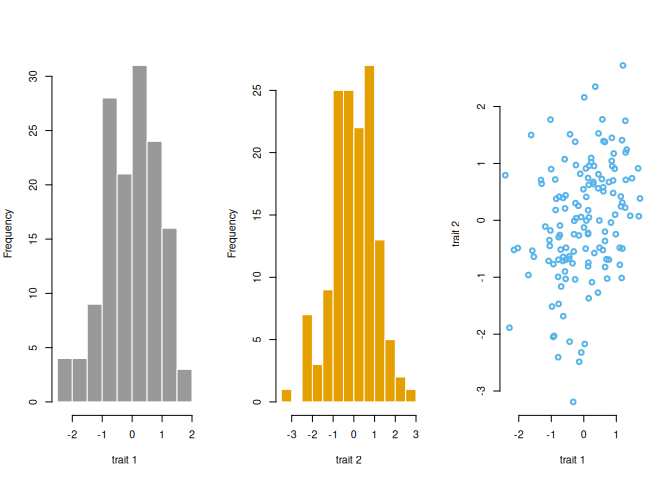
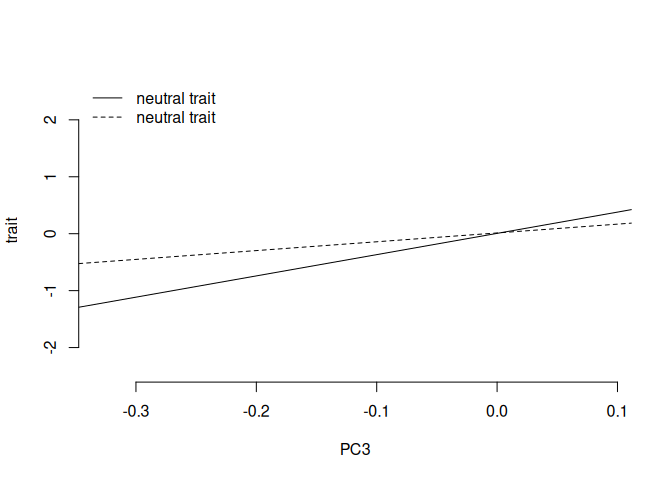
more trait sims

diff --git a/trait-sims.md b/trait-sims.md
@@ -14,43 +14,19 @@ output:
 #140 individuals, 2 traits
 myM = matrix(0, nrow=140, ncol=2)
 
-##pull in one of our actual kinship matrices
-load('data/Norwich_qpc_inputs.rda')
-
 #make up some Vas and Cs. 
 myV = matrix(c(1,.5,.5,1), nrow=2)
 
-set.seed(3)
+set.seed(333)
 
 myZ = matrix_normal(M = myM, U = myK, V = myV)
 
-par(mfrow=c(1,3))
-hist(myZ[,1], col = mycol[1], border="white", breaks=10, main = "", xlab = "trait 1")
-hist(myZ[,2], col = mycol[2], border="white", breaks=10, main= "", xlab = "trait 2")
-plot(myZ[,1], myZ[,2], xlab = "trait 1", ylab = "trait 2", bty="n", col = mycol[3], lwd=2)
-```
+#par(mfrow=c(1,3))
+#hist(myZ[,1], col = mycol[1], border="white", breaks=10, main = "", xlab = "trait 1")
+#hist(myZ[,2], col = mycol[2], border="white", breaks=10, main= "", xlab = "trait 2")
+#plot(myZ[,1], myZ[,2], xlab = "trait 1", ylab = "trait 2", bty="n", col = mycol[3], lwd=2)
+#cor.test(myZ[,1], myZ[,2])
 
-![](trait-sims_files/figure-html/unnamed-chunk-1-1.png)<!-- -->
-
-``` r
-cor.test(myZ[,1], myZ[,2])
-```
-
-```
-## 
-## 	Pearson's product-moment correlation
-## 
-## data:  myZ[, 1] and myZ[, 2]
-## t = 3.93, df = 138, p-value = 0.0001338
-## alternative hypothesis: true correlation is not equal to 0
-## 95 percent confidence interval:
-##  0.1597654 0.4590034
-## sample estimates:
-##       cor 
-## 0.3172595
-```
-
-``` r
 par(mfrow=c(1,1))
 plot(myEig$vectors[,3],myZ[,2], xlab = "PC3", ylab = "trait", col="white", bty="n") #trait under selection
 abline(lm(myZ[,2]~myEig$vectors[,3]))
@@ -58,7 +34,26 @@ abline(lm(myZ[,1]~myEig$vectors[,3]), lty=2)
 legend('topleft',c('neutral trait','neutral trait'),bty="n",lty=c(1,2))
 ```
 
-![](trait-sims_files/figure-html/unnamed-chunk-1-2.png)<!-- -->
+![](trait-sims_files/figure-html/unnamed-chunk-1-1.png)<!-- -->
+
+``` r
+myQpc1 = calc_qpc(trait_values = myZ[,1], eigen_k = myEig, test_pcs = 1:10,var_pcs = 70:140)
+myQpc2 = calc_qpc(trait_values = myZ[,2], eigen_k = myEig, test_pcs = 1:10,var_pcs = 70:140)
+
+myQpc1$pvals[3] #neutral trait
+```
+
+```
+## [1] 0.4460056
+```
+
+``` r
+myQpc2$pvals[3] #neutral trait
+```
+
+```
+## [1] 0.03167186
+```
 
 ##2. Simulate trait data for 2 correlated traits where trait 1 is neutral and trait 2  is under selection. No selection on plasticity or the reaction norm.
 
@@ -86,37 +81,17 @@ legend('topleft',c('selected trait','neutral trait'),bty="n",lty=c(1,2))
 ![](trait-sims_files/figure-html/unnamed-chunk-2-1.png)<!-- -->
 
 ``` r
-par(mfrow=c(1,3))
-hist(myZs[,1], col = mycol[1], border="white", breaks=10, main = "", xlab = "trait 1")
-hist(myZs[,2], col = mycol[2], border="white", breaks=10, main= "", xlab = "trait 2")
-plot(myZs[,1], myZs[,2], xlab = "trait 1", ylab = "trait 2", bty="n", col = mycol[3], lwd=2)
-```
+#par(mfrow=c(1,3))
+#hist(myZs[,1], col = mycol[1], border="white", breaks=10, main = "", xlab = "trait 1")
+#hist(myZs[,2], col = mycol[2], border="white", breaks=10, main= "", xlab = "trait 2")
+#plot(myZs[,1], myZs[,2], xlab = "trait 1", ylab = "trait 2", bty="n", col = mycol[3], lwd=2)
+#cor.test(myZ[,1], myZ[,2])
 
-![](trait-sims_files/figure-html/unnamed-chunk-2-2.png)<!-- -->
 
-``` r
-cor.test(myZ[,1], myZ[,2])
-```
-
-```
-## 
-## 	Pearson's product-moment correlation
-## 
-## data:  myZ[, 1] and myZ[, 2]
-## t = 9.4973, df = 138, p-value < 2.2e-16
-## alternative hypothesis: true correlation is not equal to 0
-## 95 percent confidence interval:
-##  0.5166893 0.7195517
-## sample estimates:
-##       cor 
-## 0.6287001
-```
-
-``` r
 ##does it work to create differences detectable by regular qpc
 
-myQpc1s = calcQpc(myZ = myZs[,1], myLambdas = myEig$values, myU = myEig$vectors, myM = 1:10, myL = 70:140)
-myQpc2s = calcQpc(myZ = myZs[,2], myLambdas = myEig$values, myU = myEig$vectors, myM = 1:10, myL = 70:140)
+myQpc1s = calc_qpc(trait_values = myZs[,1], eigen_k = myEig, test_pcs = 1:10,var_pcs = 70:140) #neutral trait
+myQpc2s = calc_qpc(trait_values = myZs[,2], eigen_k = myEig, test_pcs = 1:10,var_pcs = 70:140) #selected trait
 myQpc1s$pvals[3]
 ```
 
@@ -133,7 +108,22 @@ myQpc2s$pvals[3]
 ```
 
 ``` r
-#condQpc(myZs,, myM=3,myL=70:140)
+##what does it look like from the reaction norm perspective?
+myZs = data.frame(myZs)
+myZs$rn = myZs[,1] - myZs[,2]
+
+plot(myEig$vectors[,3],myZs$rn, xlab = "PC3", ylab = "rxn norm", col="white", bty="n") 
+abline(lm(myZs$rn~myEig$vectors[,3]))
+```
+
+![](trait-sims_files/figure-html/unnamed-chunk-2-2.png)<!-- -->
+
+``` r
+calc_qpc(trait_values = myZs$rn, eigen_k = myEig, test_pcs = 1:10,var_pcs = 70:140)$pvals[3] ## so this manifests as weak selection on the reaction norm in this one case.
+```
+
+```
+## [1] 0.09866403
 ```
 
 ##3 Now we want to simulate selection on the reaction norm
@@ -144,59 +134,52 @@ tc = .6 #set trait cor
 myM = matrix(0, nrow=140, ncol=2)
 myV = matrix(c(1,tc,tc,1), nrow=2)
 
-set.seed(555)
+set.seed(1221)
 myZ = matrix_normal(myM, myK, myV) ## sim the neutral traits
 
 
-#selected traits -- For trait 2, selection effect is PC3*5. For trait 1, selection effect is PC3*-5. So we have selection for different optima in each environment
-selectionEffect = matrix(-c(myEig$vectors[,3]*2, -5*myEig$vectors[,3]), nrow=140) 
-myZs = myZ + selectionEffect
+#adding selection onto the reaction norm
+myZ = data.frame(myZ)
+myZ$rn = myZs[,1] - myZs[,2]
+selectionEffect = myEig$vectors[,3]*7
+myZ$rns = myZ$rn - selectionEffect #note need to check direction before adding
 
-
-par(mfrow=c(1,2))
-plot(myEig$vectors[,3],myZs[,2], xlab = "PC3", ylab = "trait", col="white", bty="n") #trait under selection
-abline(lm(myZs[,2]~myEig$vectors[,3]), lty=2)
-abline(lm(myZs[,1]~myEig$vectors[,3]), lty=1)
-legend('topleft',c('trait 1','trait2'),bty="n",lty=c(1,2))
-
-plot(myZs[,1], myZs[,2], xlab = "trait 1", ylab = "trait 2", bty="n", col = mycol[3], lwd=2)
-abline(lm(myZs[,1]~myZs[,2]), lty=1)
+plot(myEig$vectors[,3],myZ$rns, xlab = "PC3", ylab = "rxn norm", col="white", bty="n") 
+abline(lm(myZ$rn~myEig$vectors[,3]))
+abline(lm(myZ$rns~myEig$vectors[,3]), lty=2)
 ```
 
 ![](trait-sims_files/figure-html/unnamed-chunk-3-1.png)<!-- -->
 
 ``` r
-#is there selection on trait 1?
-calcQpc(myZ = myZs[,1], myLambdas = myEig$values, myU = myEig$vectors, myM = 1:3, myL = 70:140)$pvals[3]
+calc_qpc(trait_values = myZ$rns, eigen_k = myEig, test_pcs = 1:10,var_pcs = 70:140)$pvals[3]
 ```
 
 ```
-## [1] 0.9812383
-```
-
-``` r
-#is there selection on trait 2
-calcQpc(myZ = myZs[,2], myLambdas = myEig$values, myU = myEig$vectors, myM = 1:3, myL = 70:140)$pvals[3]
-```
-
-```
-## [1] 3.264703e-05
+## [1] 1.087367e-08
 ```
 
 ``` r
-#is there selection on mean?
-calcQpc(myZ = (myZs[,1]+myZs[,2])/2, myLambdas = myEig$values, myU = myEig$vectors, myM = 1:3, myL = 70:140)$pvals[3]
+##issue is this is separate from the trait values -- just shows we can add selection onto a reaction norm... can we make it into trait values? Imagine we hold trait 1 steady and add the reaction norm on for trait 2
+
+myZ$trait1s = myZ[,2]+ myZ$rns
+
+
+plot(myEig$vectors[,3],myZ$trait1s, xlab = "PC3", ylab = "rxn norm", col="white", bty="n") 
+abline(lm(myZ[,2]~myEig$vectors[,3]))
+abline(lm(myZ$trait1s~myEig$vectors[,3]), lty=2)
+legend('topright',c('selected trait','neutral trait'),bty="n",lty=c(2,1))
 ```
 
-```
-## [1] 0.0168443
-```
+![](trait-sims_files/figure-html/unnamed-chunk-3-2.png)<!-- -->
 
 ``` r
-#is there selection on reaction norm?
-calcQpc(myZ = myZs[,1]-myZs[,2], myLambdas = myEig$values, myU = myEig$vectors, myM = 1:3, myL = 70:140)$pvals[3]
+calc_qpc(trait_values = myZ$trait1s, eigen_k = myEig, test_pcs = 1:10,var_pcs = 70:140)$pvals[3]
 ```
 
 ```
-## [1] 6.095792e-07
+## [1] 6.777753e-07
 ```
+
+##R independent selection on each trait IN PROGRESS
+
